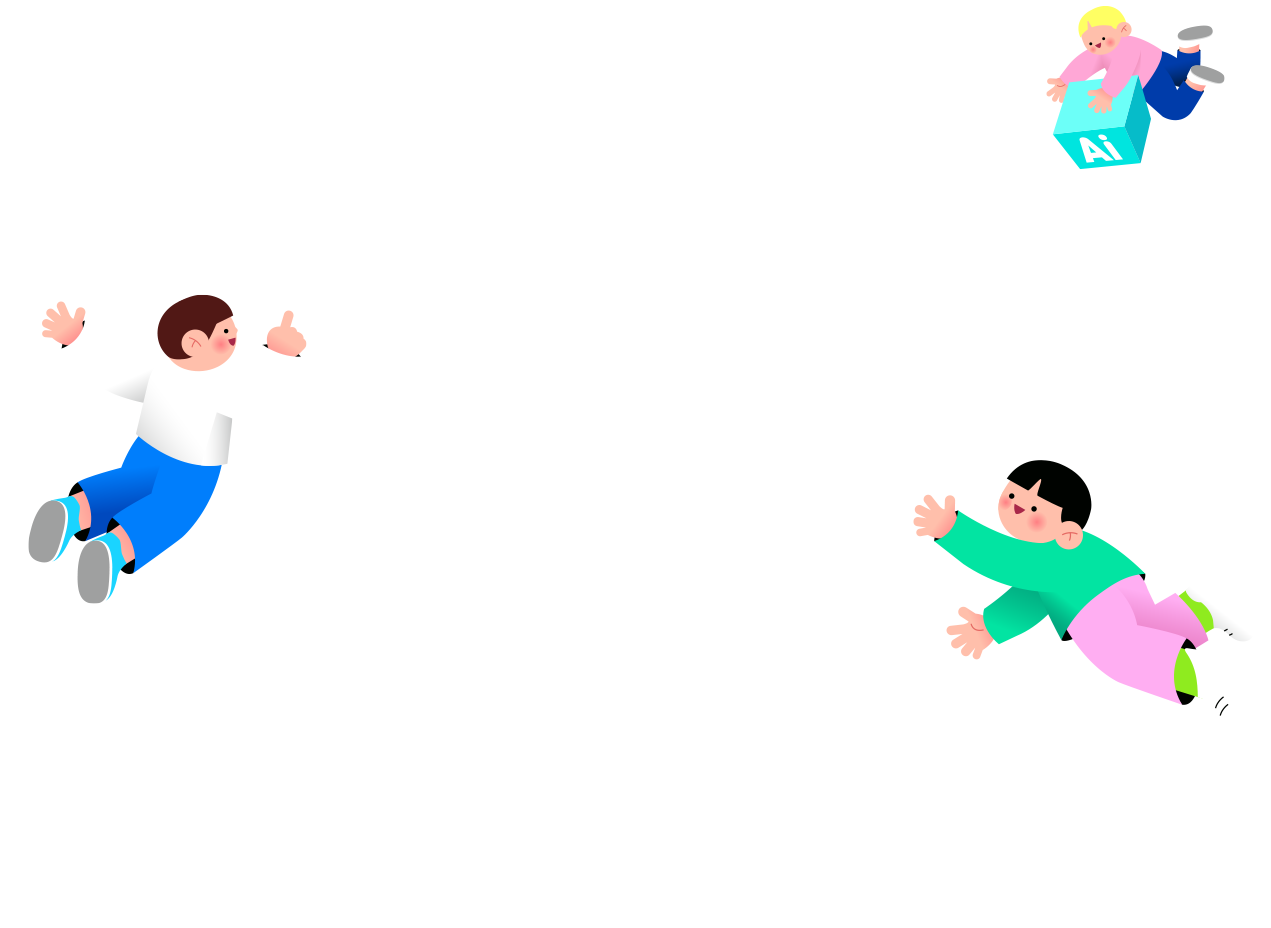
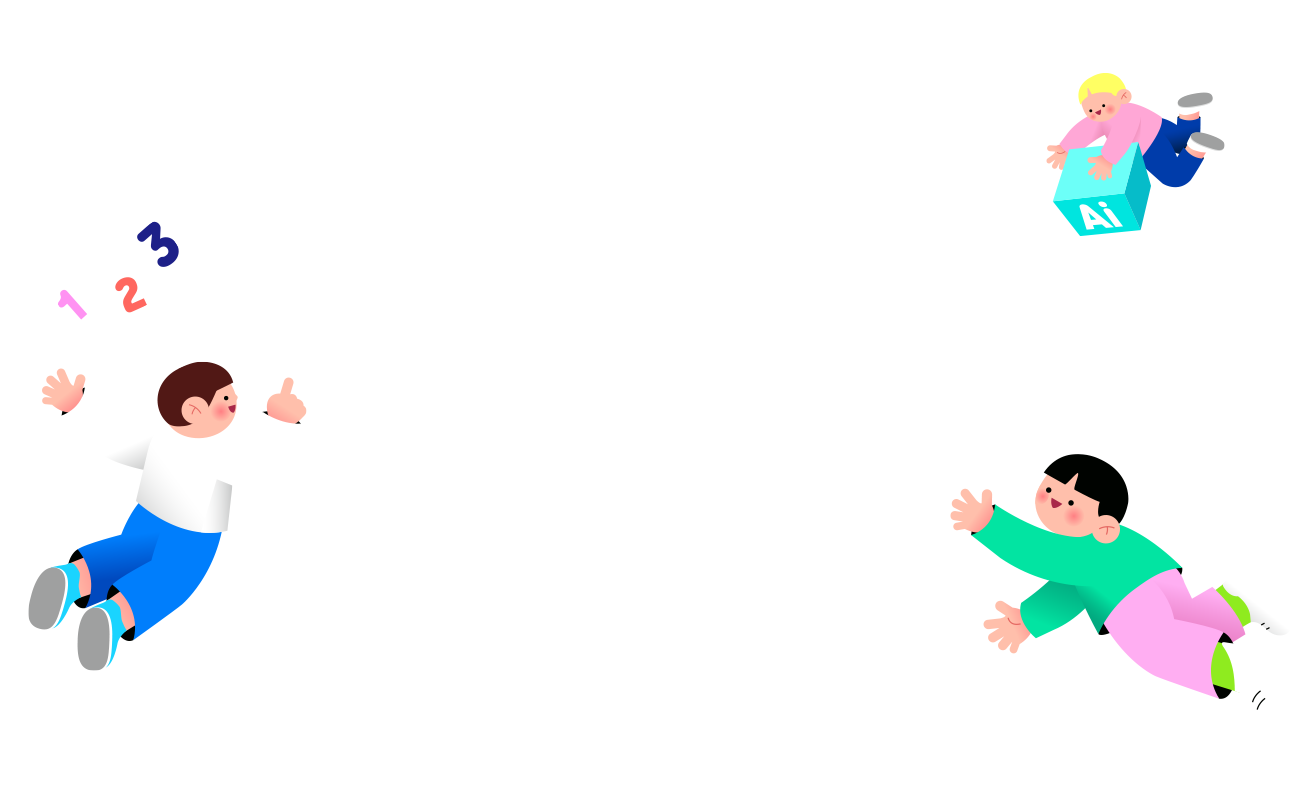
section 1 여백 조정 / 배경 이미지 수정

diff --git a/aidt_introduce/css/aidt_introduce.css b/aidt_introduce/css/aidt_introduce.css
@@ -67,7 +67,7 @@ header { position: fixed; top: 0; left: 0; width: 100%; z-index: 1000; backgroun
 
 /******* 홈 *******/
 .wrap_bg1 { width: 100%; background: linear-gradient(to bottom, #2871fa, #6617ce); padding-top: 100px; } 
-h1 { color: #fff; padding: 90px 0 40px; font-size: 50px; text-align: center; font-weight: 500; } 
+h1 { color: #fff; padding: 150px 0 40px; font-size: 50px; text-align: center; font-weight: 500; } 
 .top_bg1 { width: 1300px; margin: 0 auto; background: url('../img/top_bg1.png') no-repeat center 30px; min-height: 950px; } 
 .top_title1 { width: 764px; height: 106px; background: url('../img/top_title_01.png') no-repeat; margin: 0 auto 80px; text-indent: -999px; font-size: 0; } 
 .top_title2 { width: 636px; height: 93px; background: url('../img/top_title_02.png') no-repeat; margin: 0 auto 110px; text-indent: -999px; font-size: 0; } 
